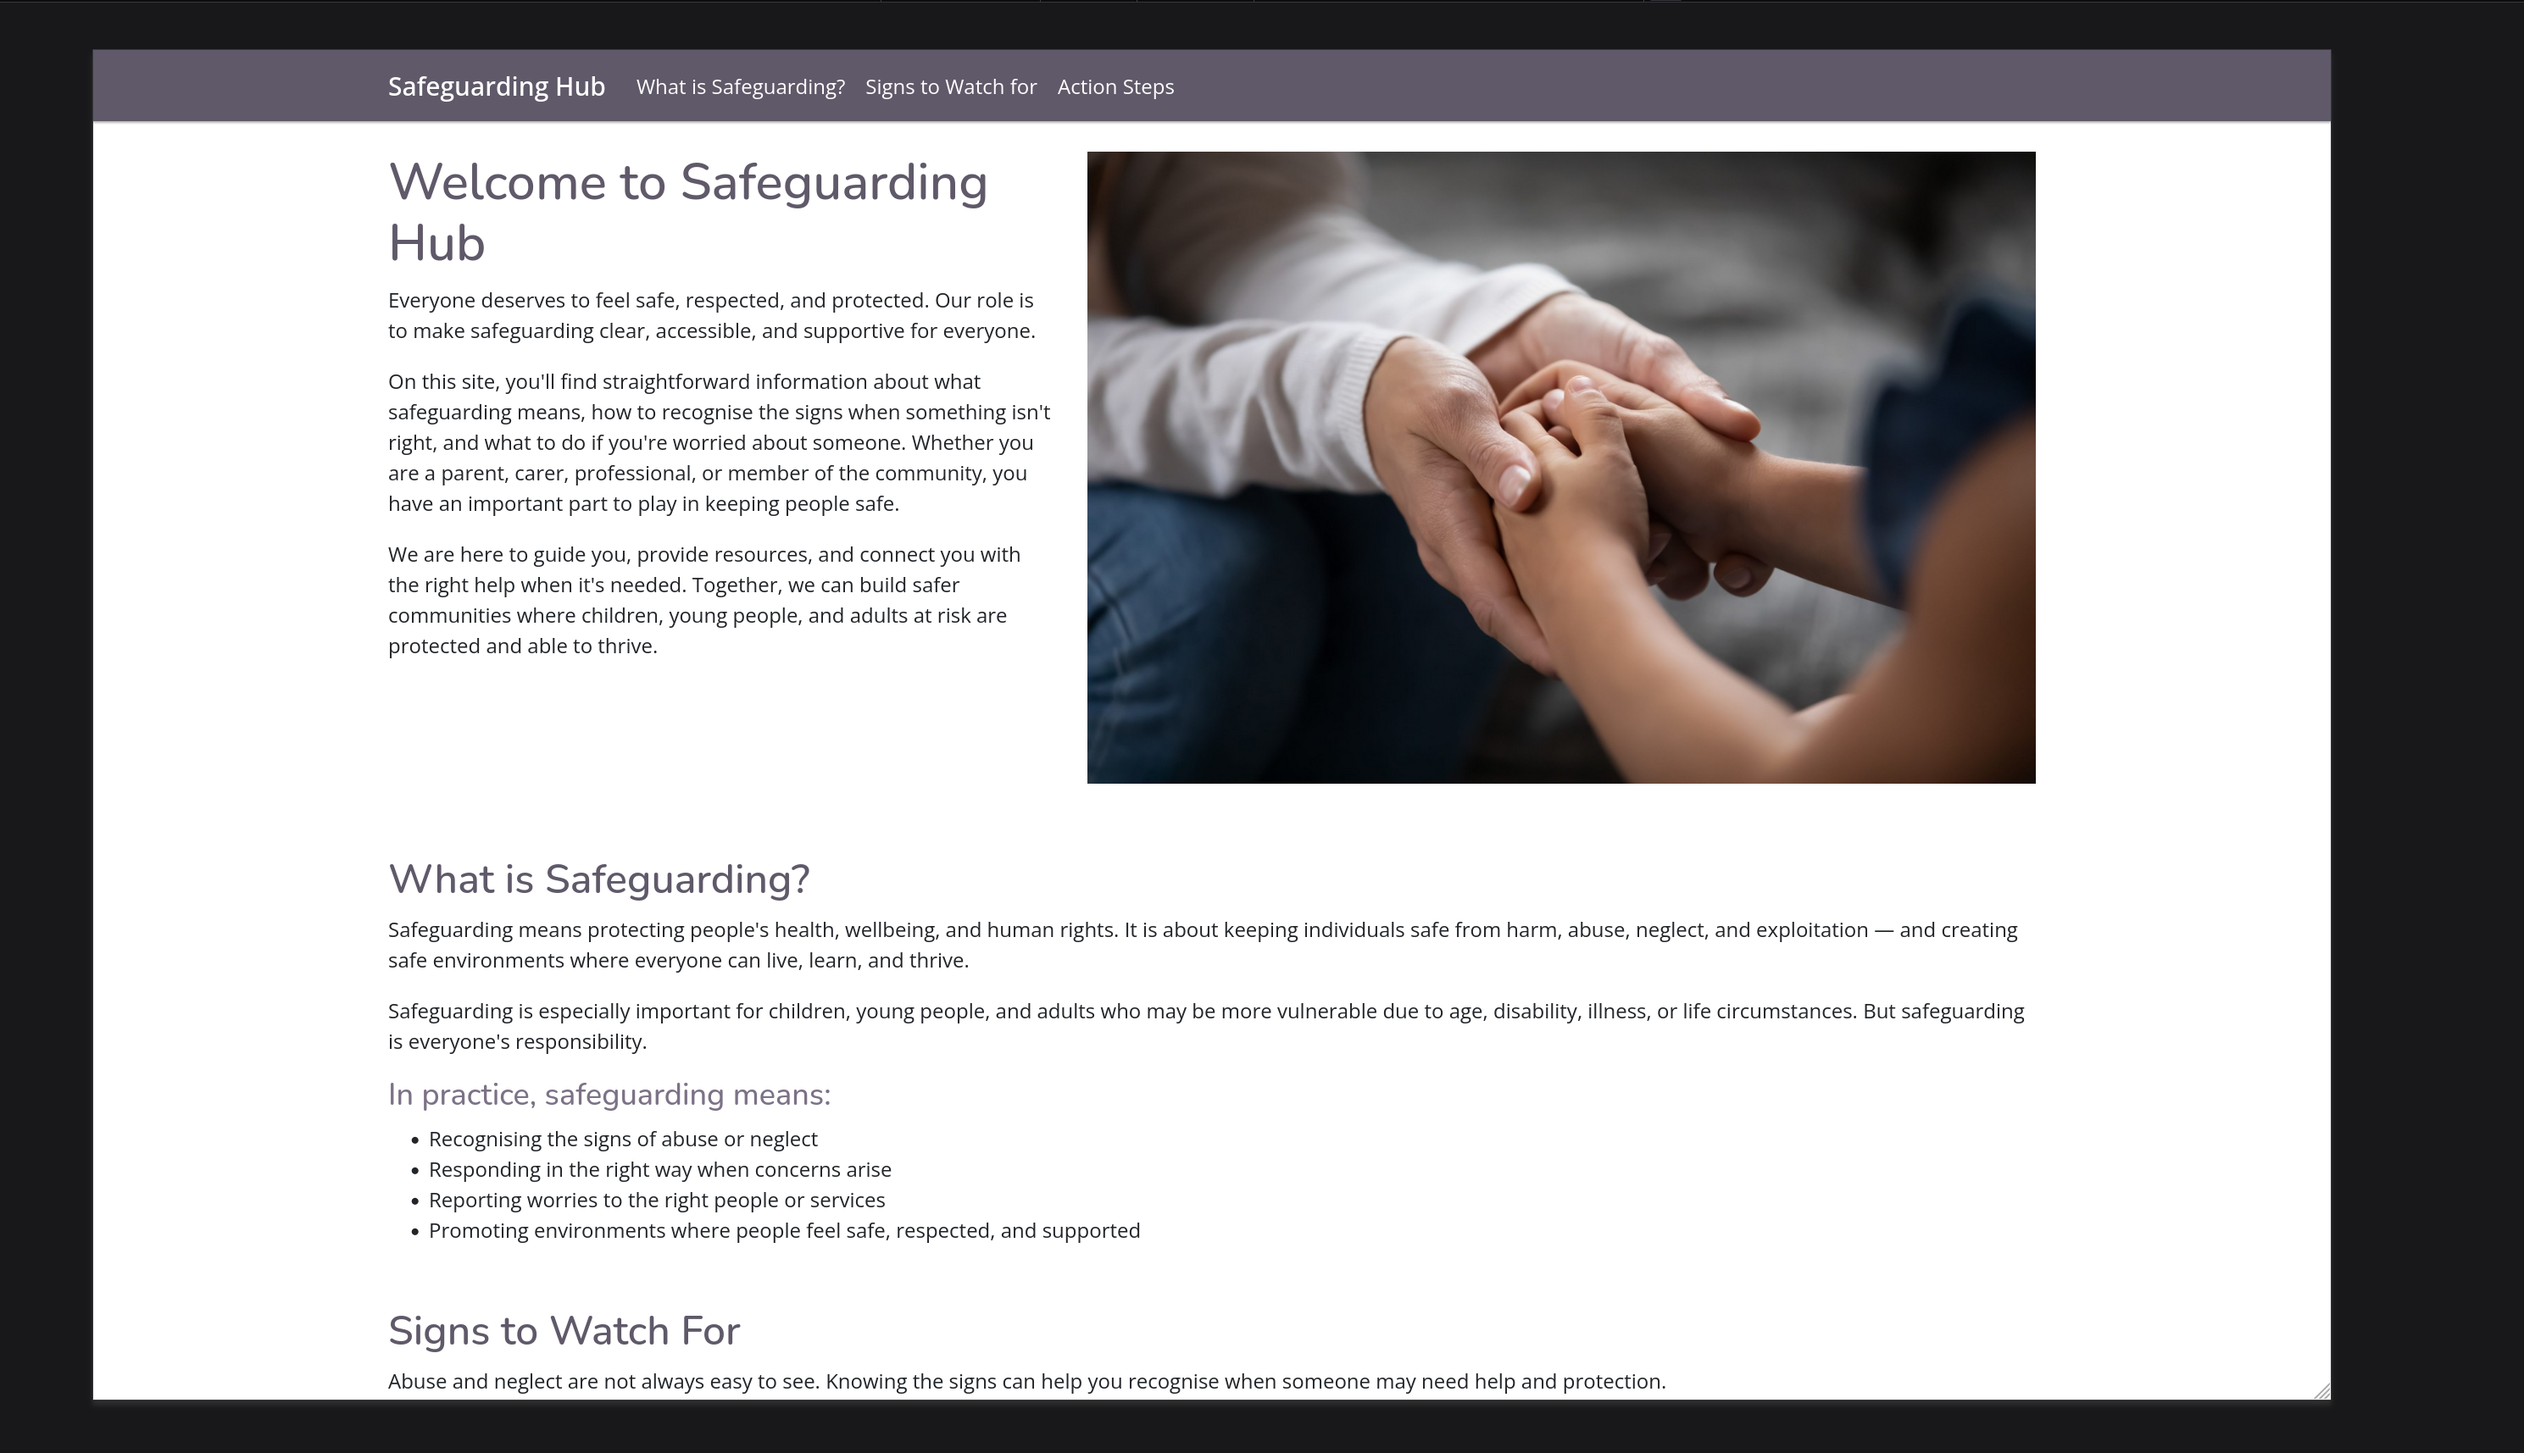
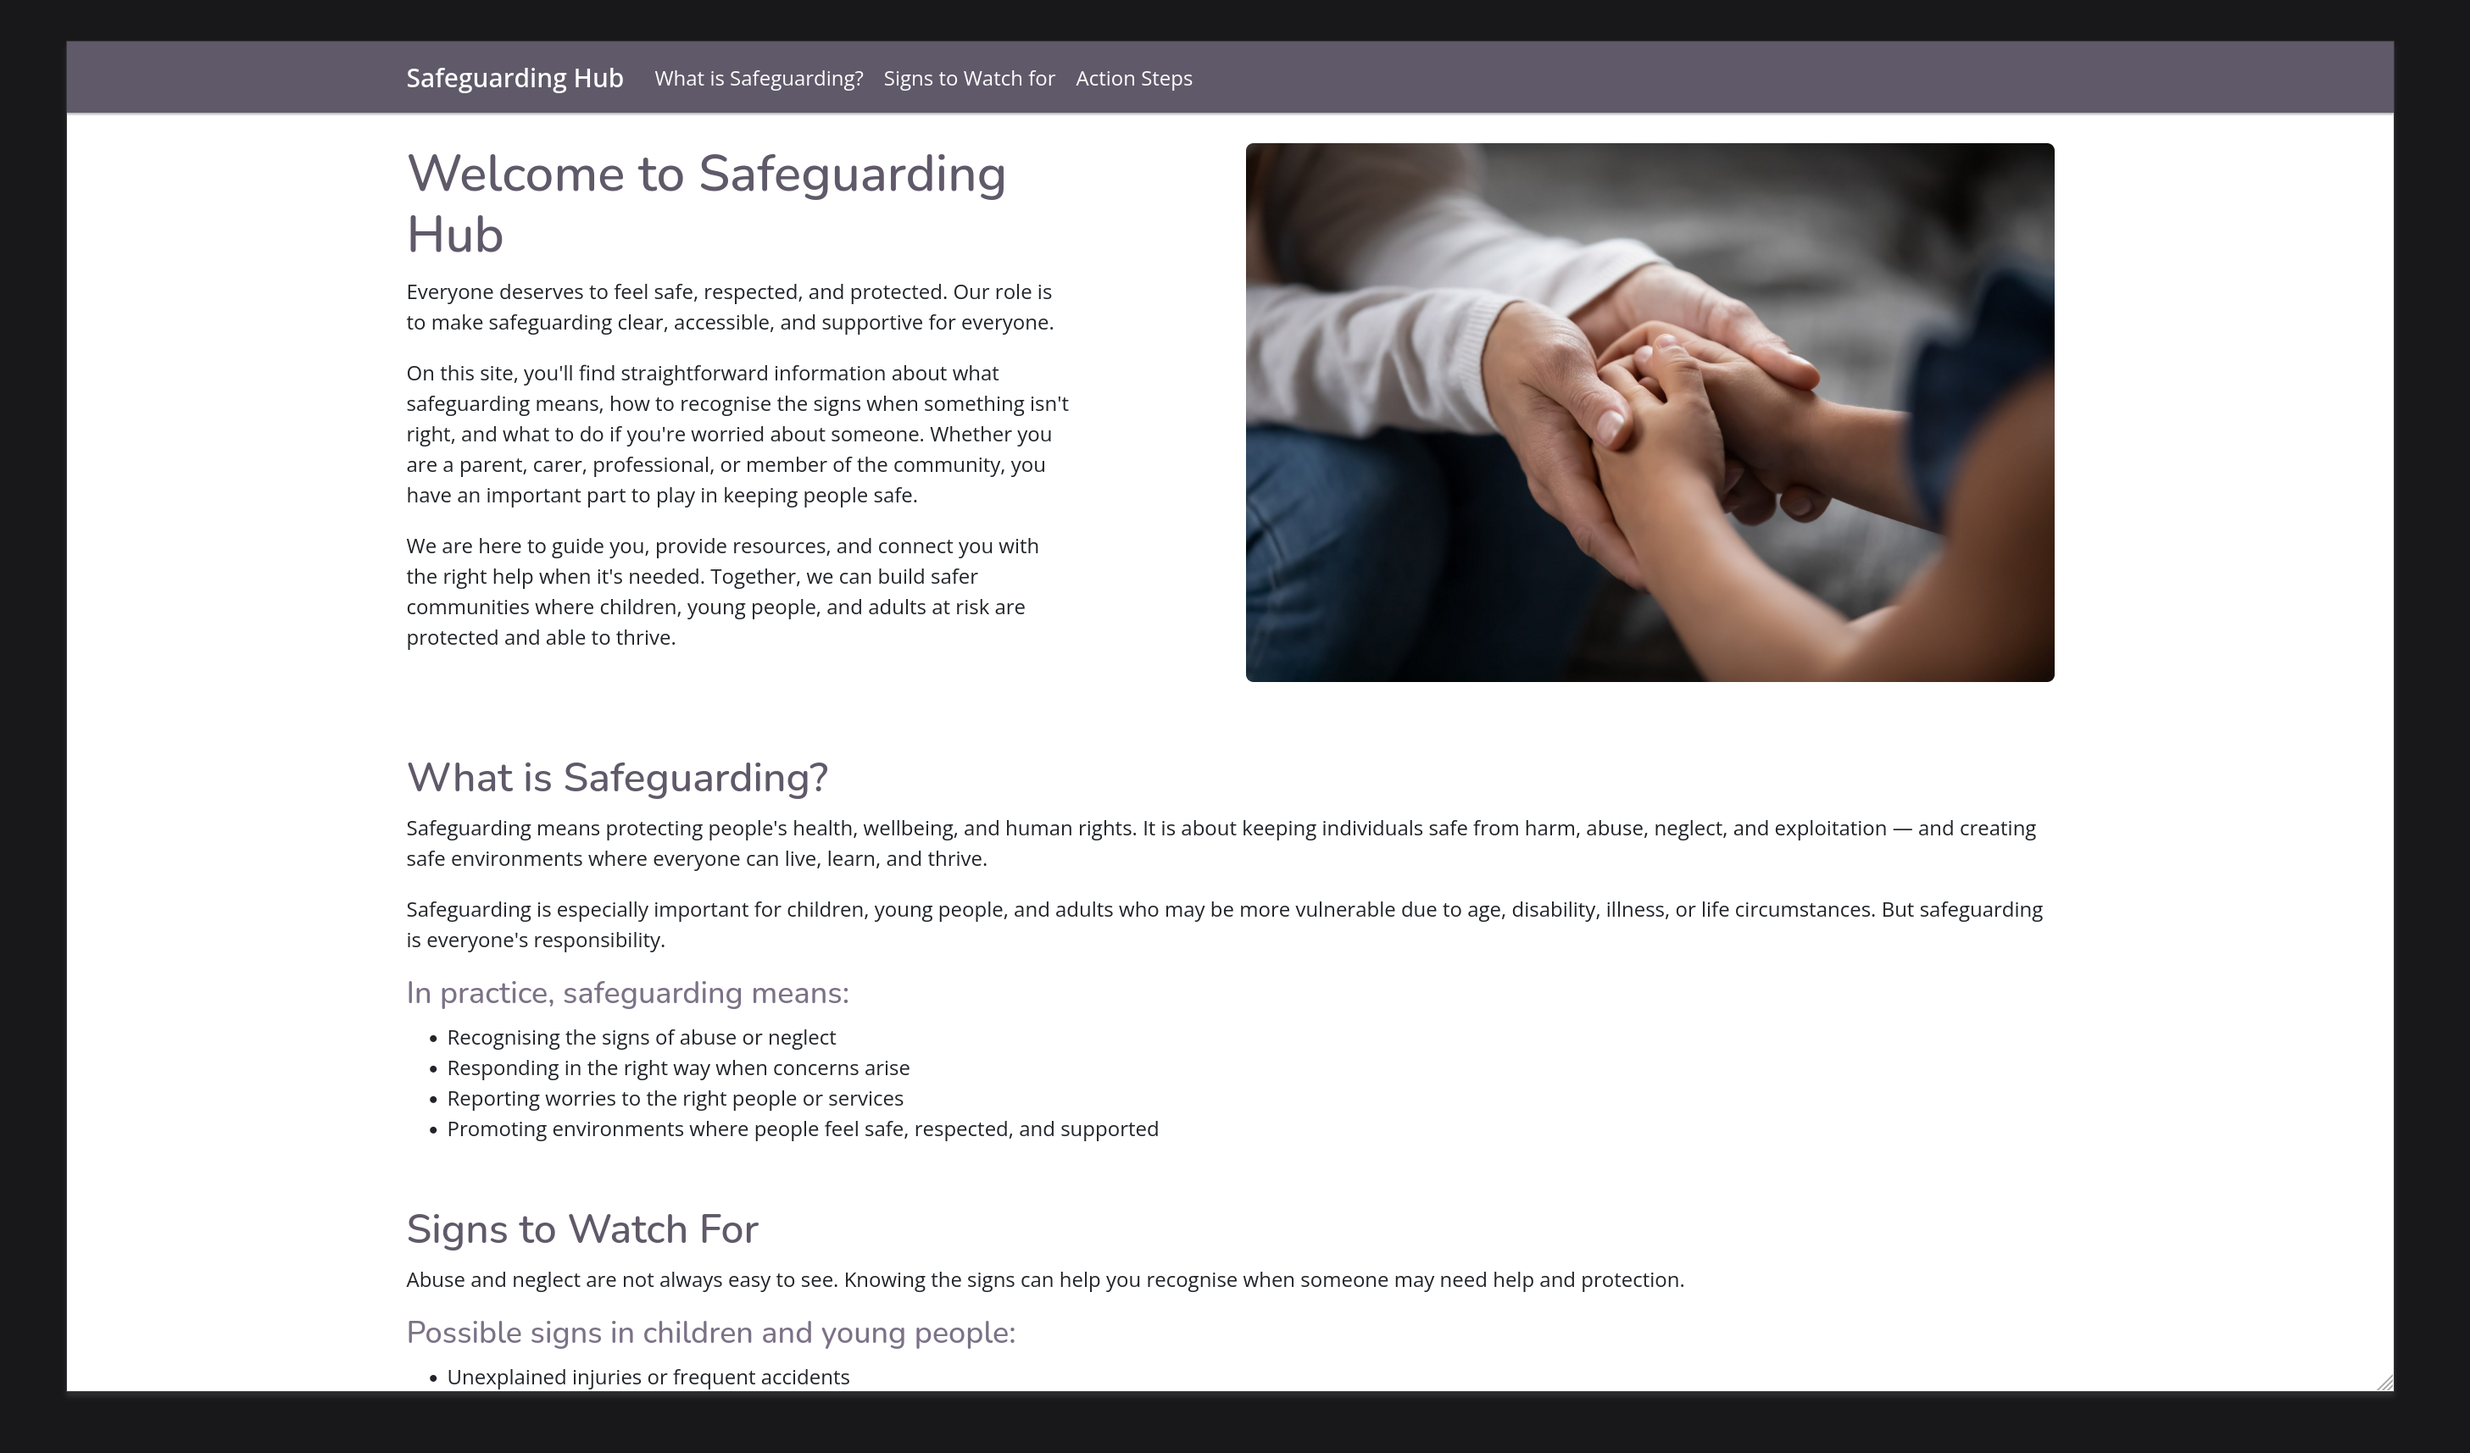
Change readme and supporting images to reflect amended website

diff --git a/README.md b/README.md
@@ -11,7 +11,7 @@ Introduces users to safeguarding principles, how to spot the signs and how to ac
 Here the navbar has burger menu containing the site links and all contents stacked vertically.
 
 ![Website as rendered on a device with a medium screen](assets/images/readme/medium-device.png "Medium device size has navbar ")
-The navbar has expanded to show the contents now along the bar. From this screen size the navbar elements have padding to make them more central and alined with the page content.
+The navbar has expanded to show the contents now along the bar.
 
 ![Website as rendered on a device with a large screen](assets/images/readme/large-device.png "Large device size")
 Large screens and up have the header image and text side by side.
@@ -31,10 +31,11 @@ The navbar options take the user to the specific headings on the page without co
 
 ## Other user centric design elements
 
-![Website as rendered on a device with a small screen with the navbar closed](assets/images/readme/small-device-design.png "Small device size navbar closed")
+![Website as rendered on a device with a small screen with the navbar closed](assets/images/readme/small-device-navbar-outcome.png "Small device size navbar closed")
 
 - Use of colour and weights to differentiate headings and subheadings
 - A font choice that felt professional but welcoming
+- For most screen sizes the navbar elements have padding to make them more central and alined with the page content.
 
 # Deployment procedure
 Github pages automatically redploys site updates upon pushes to the remte repository
